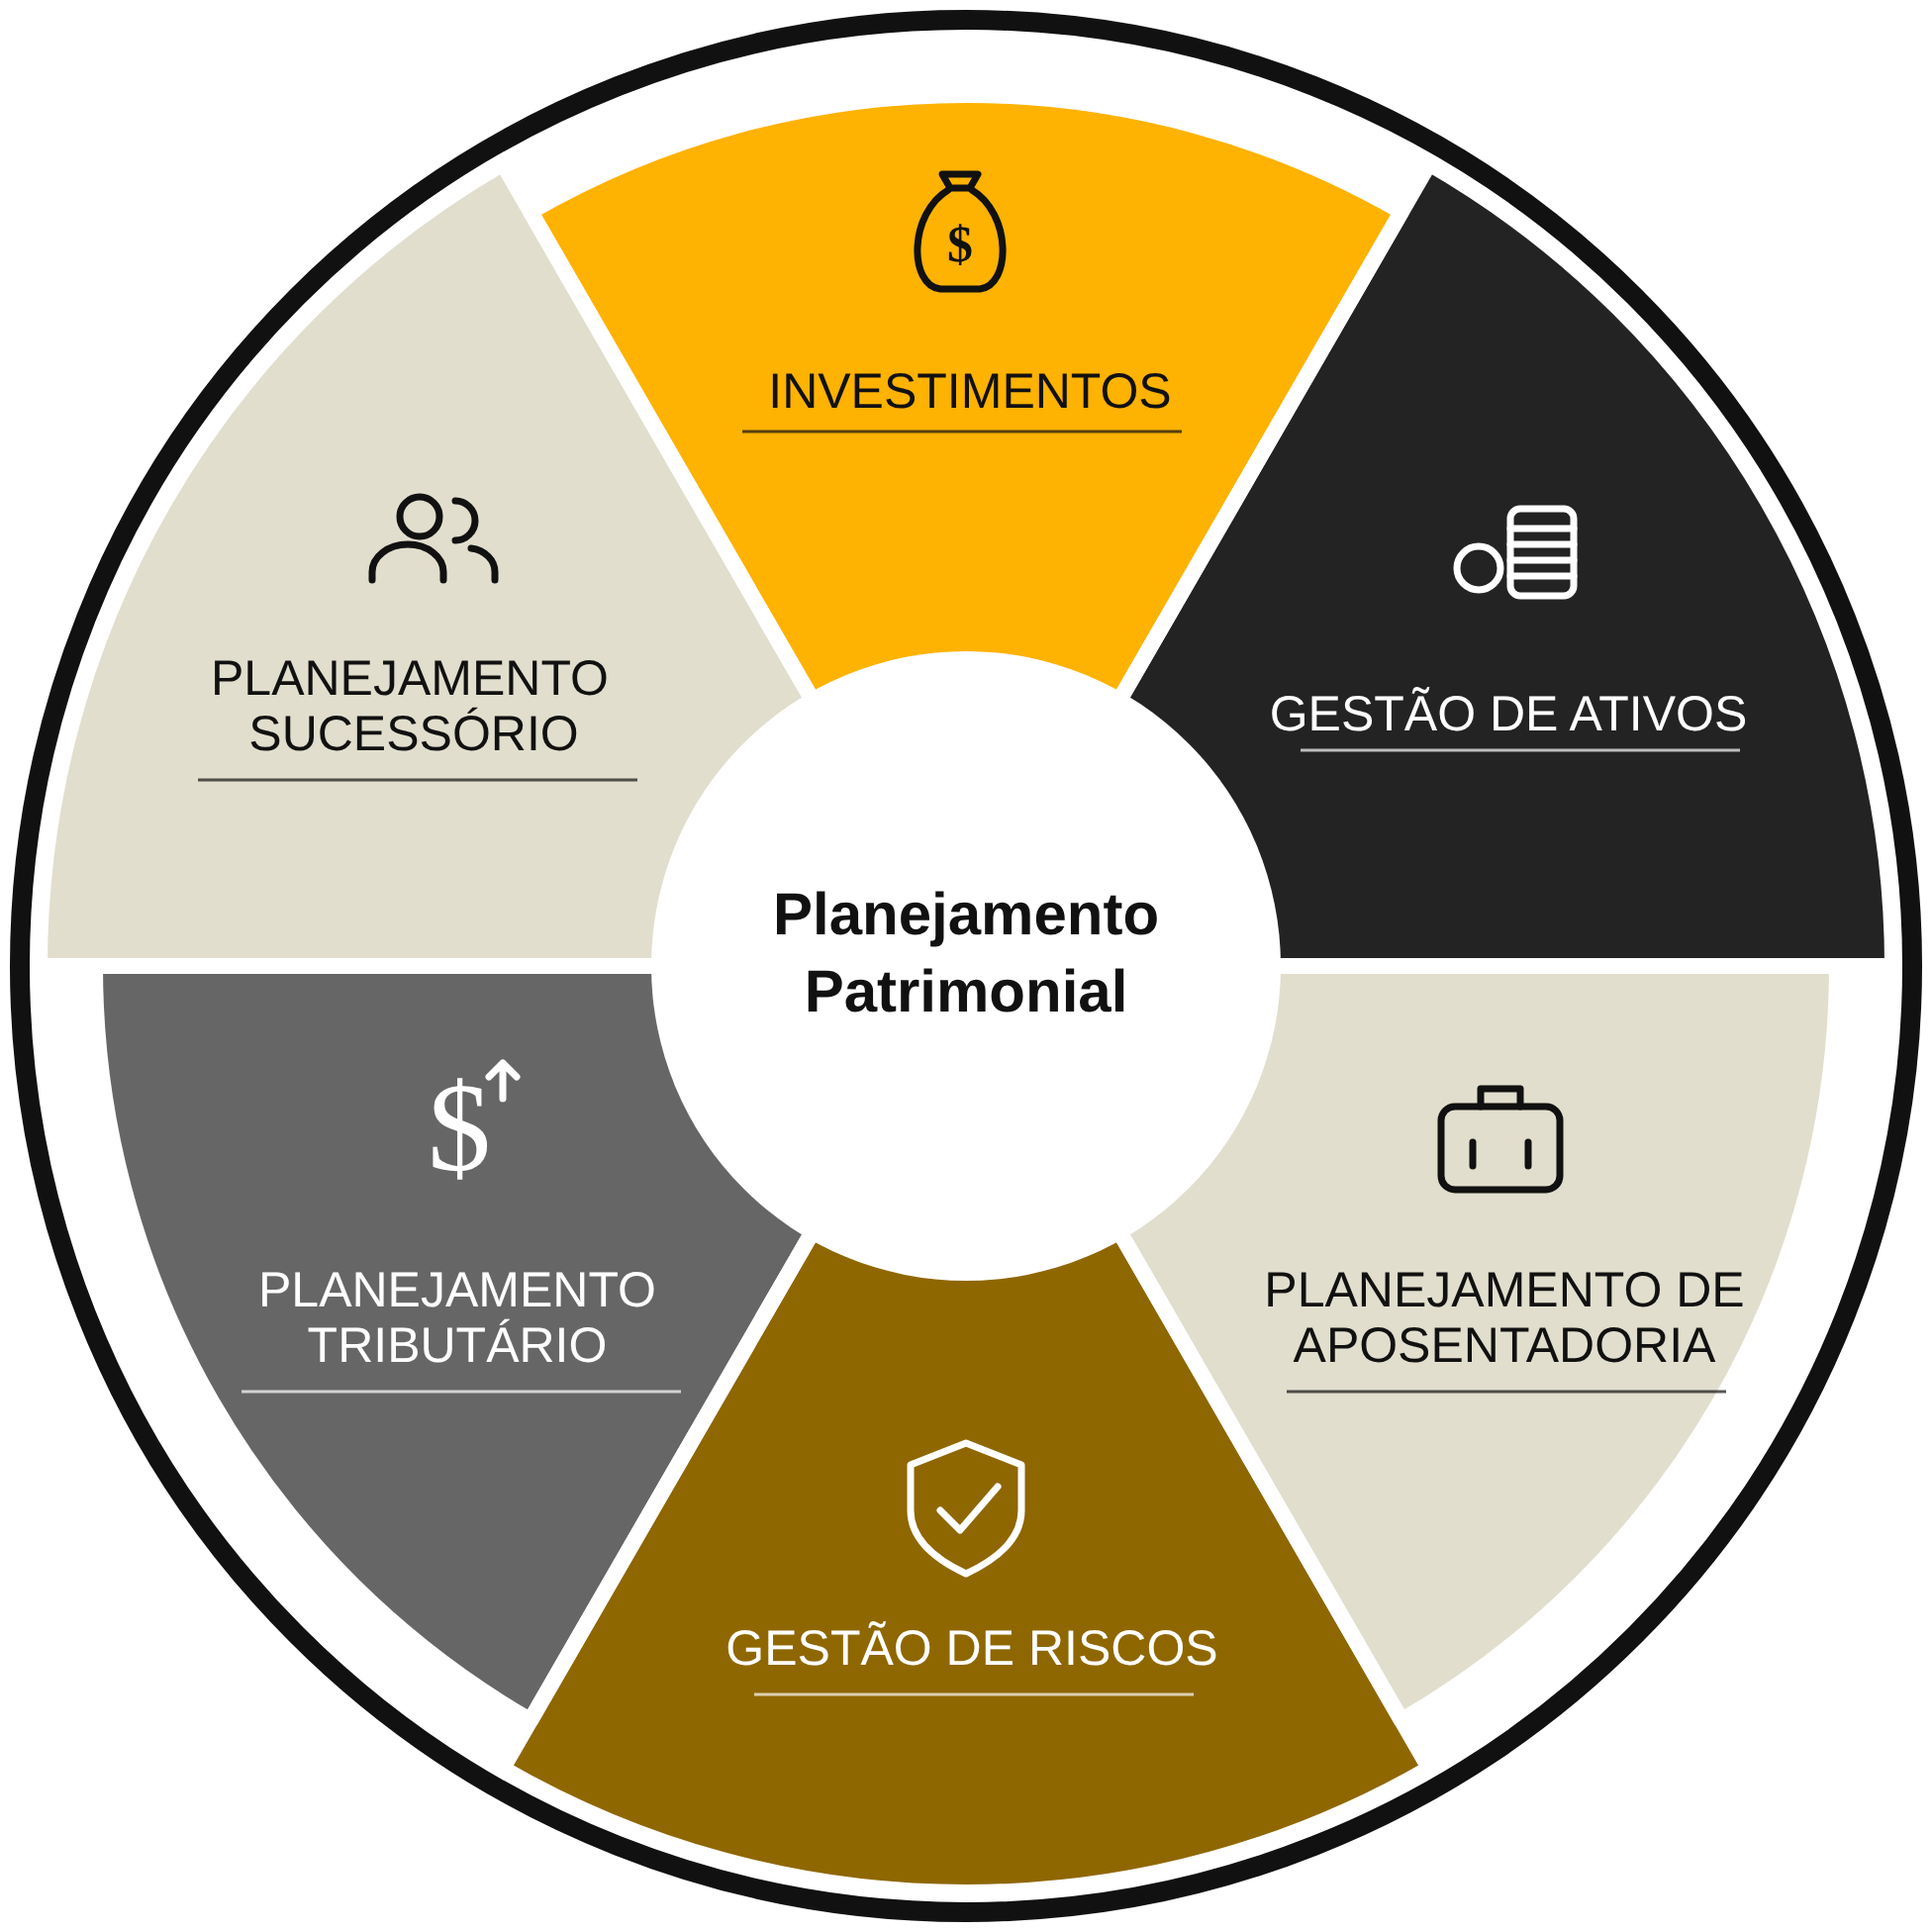
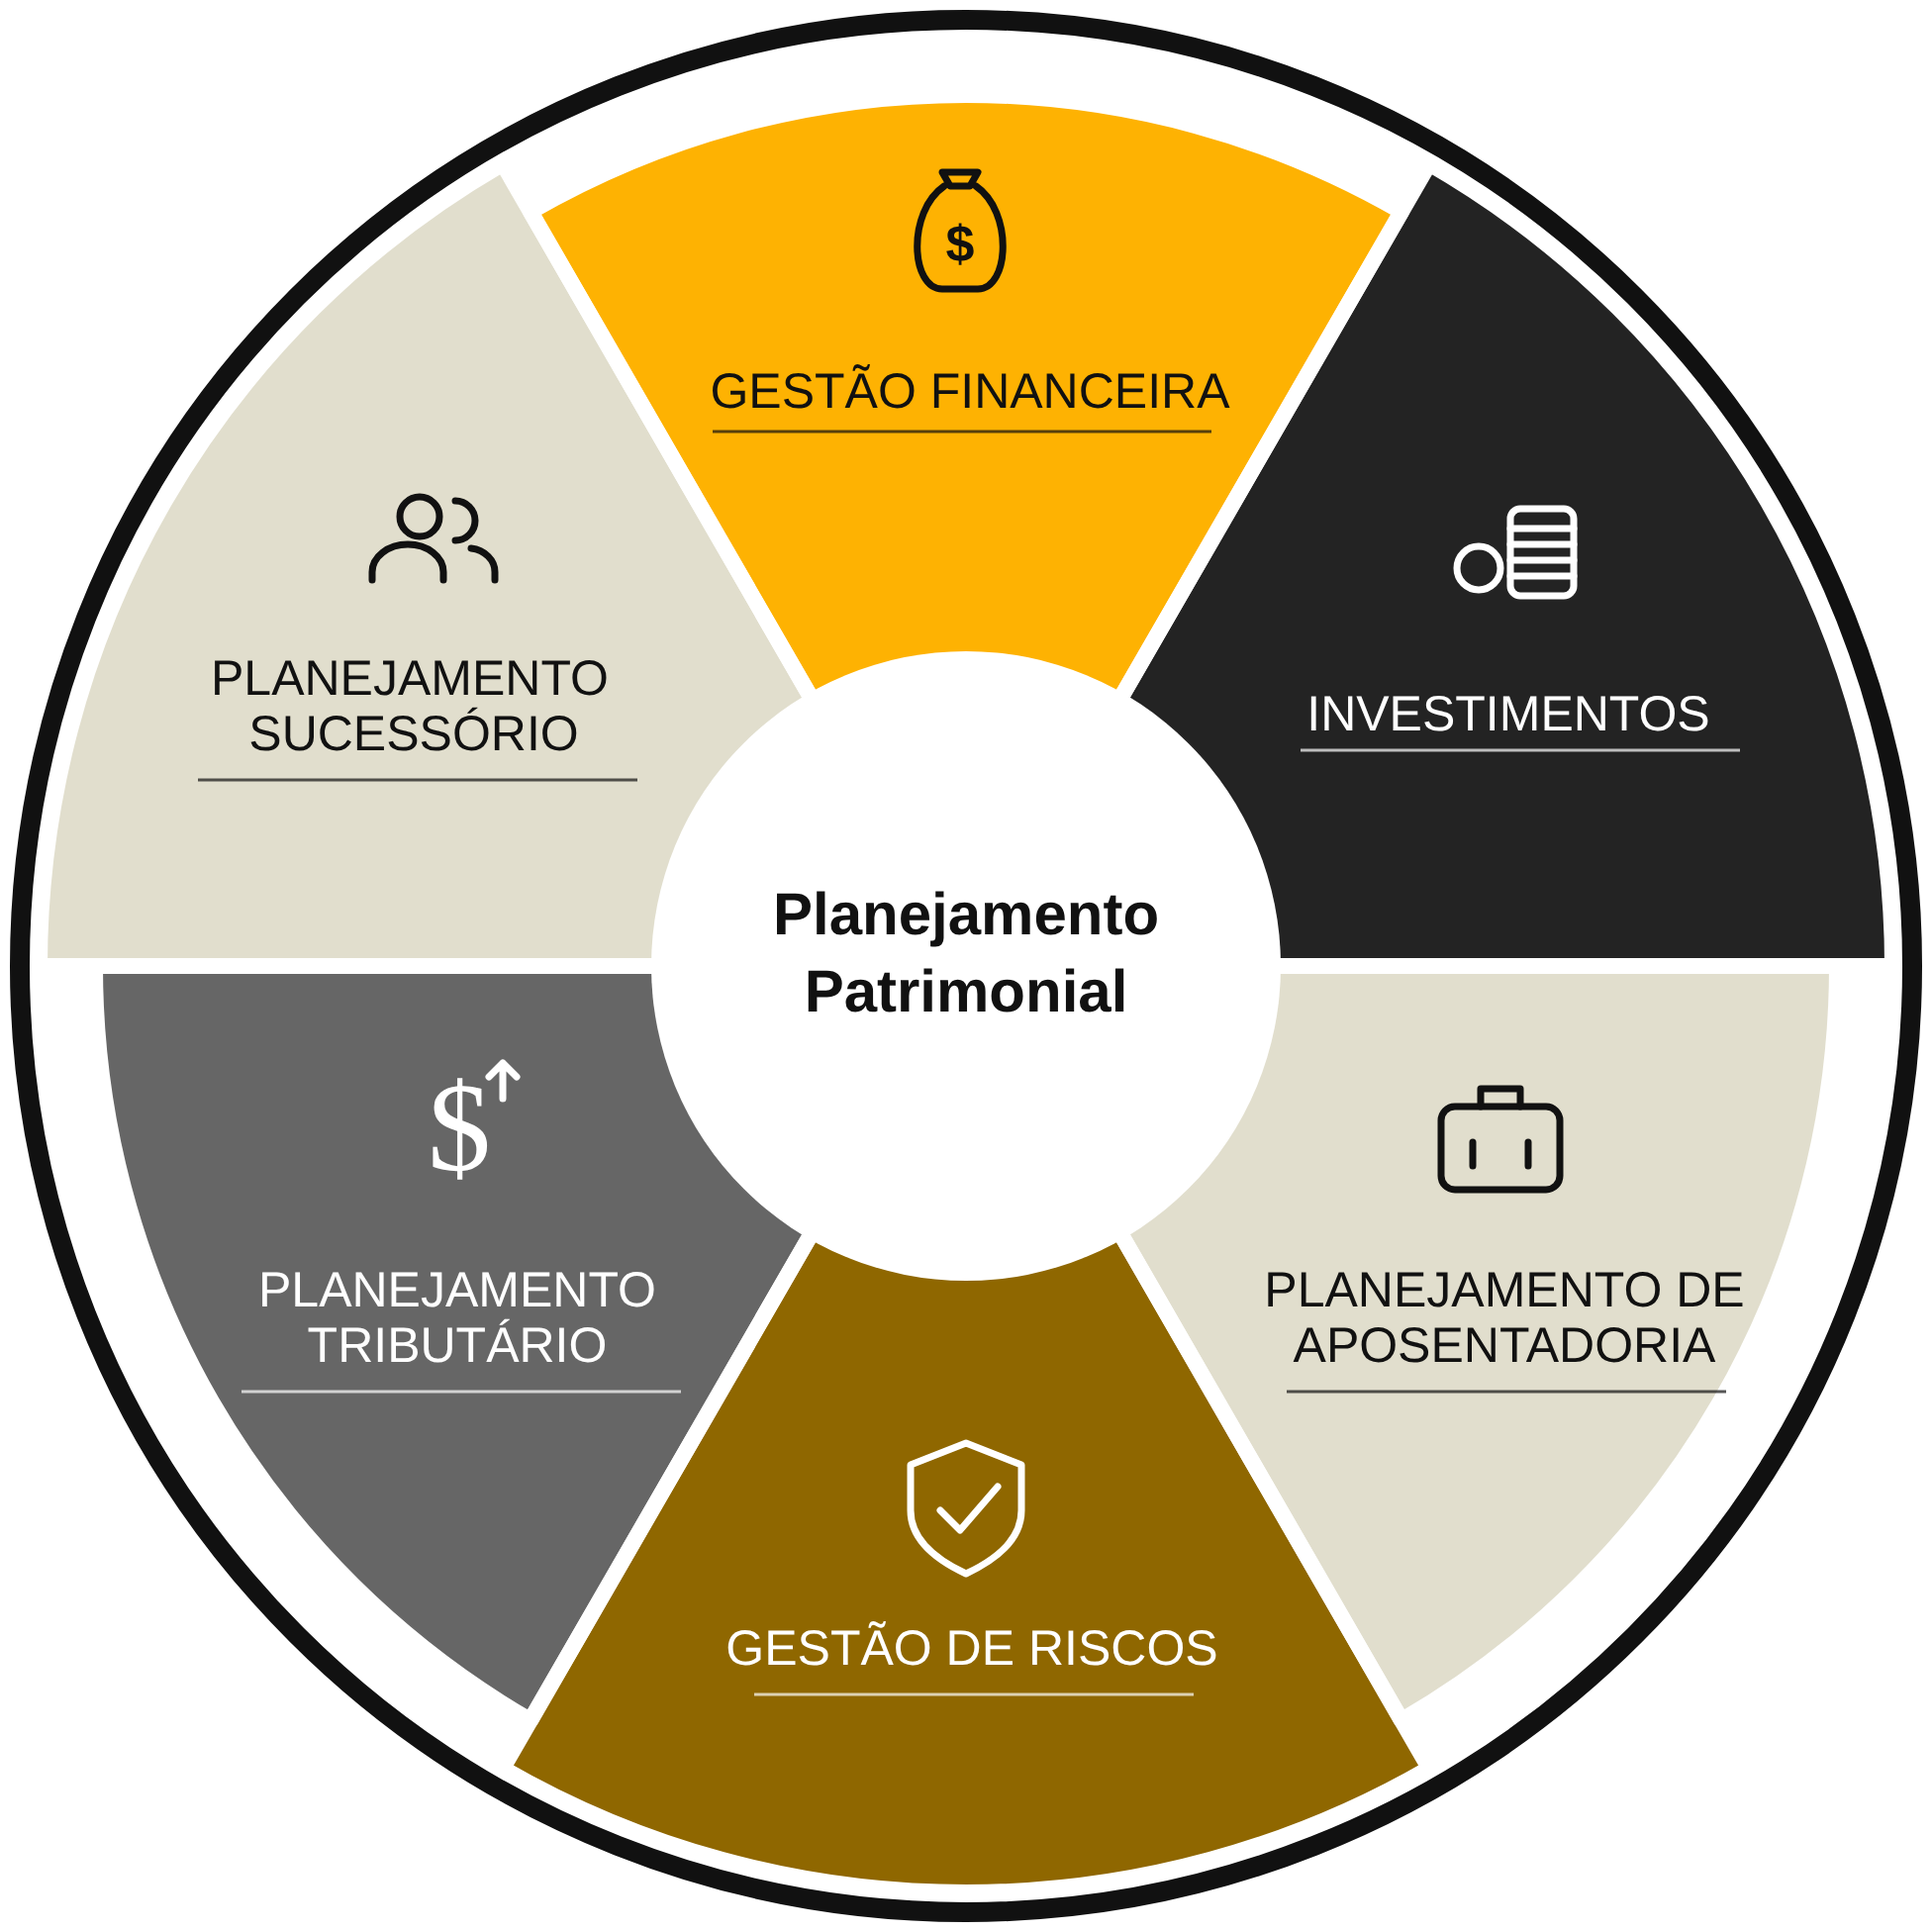
Ajustes de espacamento, remocao da secao Sobre Nos e animacoes mais lentas

Changed region(s): [[0.6562, 0.3438, 0.9062, 0.375], [0.375, 0.1875, 0.625, 0.2188], [0.4688, 0.0938, 0.5312, 0.125]]

diff --git a/src/components/missao-visao-valores.tsx b/src/components/missao-visao-valores.tsx
@@ -12,7 +12,7 @@ const valores = [
 export function MissaoVisaoValores() {
   return (
     <section
-      className="relative overflow-hidden py-16 md:py-20 lg:py-24"
+      className="relative overflow-hidden py-10 md:py-10 lg:py-20"
       style={{ background: "#FFFFFF" }}
     >
       <div className="mx-auto w-full max-w-[1280px] px-5 md:px-8">
@@ -43,14 +43,9 @@ export function MissaoVisaoValores() {
               <span className="font-display text-[0.7rem] font-extrabold tracking-[0.28em] text-accent uppercase">
                 Valores
               </span>
-              <ul className="mt-5 flex flex-wrap gap-2">
+              <ul className="mt-5 flex list-disc flex-col gap-1.5 pl-5 font-sans text-base leading-snug text-ink-muted marker:text-accent md:text-lg">
                 {valores.map((valor) => (
-                  <li
-                    key={valor}
-                    className="inline-flex items-center rounded-full border border-accent-hairline px-4 py-2 font-sans text-sm leading-snug text-ink-muted md:text-base"
-                  >
-                    {valor}
-                  </li>
+                  <li key={valor}>{valor}</li>
                 ))}
               </ul>
             </div>

diff --git a/src/components/provas.tsx b/src/components/provas.tsx
@@ -22,7 +22,7 @@ function NumeroAnimado({ valor, ativo }: { valor: number; ativo: boolean }) {
     if (!ativo) return;
     let raf = 0;
     const inicio = performance.now();
-    const duracao = 1600;
+    const duracao = 2200;
     const tick = (agora: number) => {
       const t = Math.min((agora - inicio) / duracao, 1);
       const eased = 1 - Math.pow(1 - t, 3); // ease-out cúbico
@@ -59,7 +59,7 @@ function ItemResumo({ item, ativo, indice }: { item: Item; ativo: boolean; indic
   const anim = {
     opacity: ativo ? 1 : 0,
     transform: ativo ? "translateY(0)" : "translateY(14px)",
-    transition: `opacity 700ms ease-out ${indice * 160}ms, transform 700ms ease-out ${indice * 160}ms`,
+    transition: `opacity 1000ms ease-out ${indice * 180}ms, transform 1000ms ease-out ${indice * 180}ms`,
   };
 
   return (
@@ -114,7 +114,7 @@ export function Provas() {
     <section
       id="trajetoria"
       ref={ref}
-      className="relative overflow-hidden py-16 md:py-20 lg:py-28"
+      className="relative overflow-hidden py-10 md:py-10 lg:py-20"
       style={{ background: "#FFFFFF" }}
     >
       <div className="relative mx-auto w-full max-w-[1200px] px-5 md:px-8">

diff --git a/src/components/fundador.tsx b/src/components/fundador.tsx
@@ -8,8 +8,20 @@ export function Fundador() {
   const [videoStarted, setVideoStarted] = useState(false);
 
   return (
-    <section className="relative overflow-hidden bg-surface-light py-16 md:py-20 lg:py-24">
+    <section
+      id="sobre"
+      className="relative overflow-hidden bg-surface-light py-10 md:py-10 lg:py-20"
+    >
       <div className="mx-auto w-full max-w-[1280px] px-5 md:px-8">
+        {/* Selo "Sobre nós" abrindo a seção, seguido direto para o fundador e o vídeo */}
+        <Reveal>
+          <span className="inline-flex items-center rounded-full border border-accent px-5 py-2 font-display text-[0.7rem] font-extrabold tracking-[0.06em] text-accent uppercase md:text-xs">
+            Sobre nós
+          </span>
+        </Reveal>
+      </div>
+
+      <div className="mt-10 mx-auto w-full max-w-[1280px] px-5 md:px-8">
         <div className="grid gap-12 lg:grid-cols-[minmax(0,0.85fr)_minmax(0,1.15fr)] lg:items-center lg:gap-16">
           {/* foto / vídeo do podcast */}
           <Reveal>

diff --git a/src/routes/index.tsx b/src/routes/index.tsx
@@ -2,7 +2,6 @@ import { Equipe } from "@/components/equipe";
 import { createFileRoute } from "@tanstack/react-router";
 import { SiteHeader } from "@/components/site-header";
 import { Hero } from "@/components/hero";
-import { NovaAwa } from "@/components/nova-awa";
 import { Fundador } from "@/components/fundador";
 import { MissaoVisaoValores } from "@/components/missao-visao-valores";
 import { GrupoAwa } from "@/components/grupo-awa";
@@ -57,7 +56,6 @@ function Index() {
       <Hero />
 
       {/* Sobre nós */}
-      <NovaAwa />
       <Fundador />
       <MissaoVisaoValores />
       <GrupoAwa />

diff --git a/src/routes/assessores.tsx b/src/routes/assessores.tsx
@@ -39,7 +39,7 @@ function Assessores() {
     <main className="min-h-screen bg-surface-light">
       <SiteHeader variant="light" />
 
-      <article className="relative overflow-hidden py-16 pt-32 md:py-20 md:pt-40 lg:py-28">
+      <article className="relative overflow-hidden py-10 pt-32 md:py-10 md:pt-40 lg:py-20">
         <div className="mx-auto w-full max-w-[1100px] px-5 md:px-8">
           <Reveal>
             <p className="font-display text-[0.65rem] font-extrabold tracking-[0.3em] text-accent uppercase">

diff --git a/src/components/frase-transicao.tsx b/src/components/frase-transicao.tsx
@@ -3,7 +3,7 @@ import type { ReactNode } from "react";
 export function FraseTransicao({ children }: { children: ReactNode }) {
   return (
     <div
-      className="relative flex items-center justify-center overflow-hidden py-10 md:py-14"
+      className="relative flex items-center justify-center overflow-hidden py-10 md:py-10 lg:py-20"
       style={{ background: "#232323" }}
     >
       <p className="mx-auto px-5 text-center font-display text-lg font-bold tracking-tight text-white md:text-2xl">

diff --git a/src/components/reveal.tsx b/src/components/reveal.tsx
@@ -35,8 +35,8 @@ export function Reveal({
     <div
       ref={ref}
       style={{ ...style, transitionDelay: `${delay}ms` }}
-      className={`transition-all duration-700 ease-out motion-reduce:transition-none ${
-        visible ? "translate-y-0 opacity-100" : "translate-y-6 opacity-0"
+      className={`transition-all duration-1000 ease-out motion-reduce:transition-none ${
+        visible ? "translate-y-0 opacity-100" : "translate-y-8 opacity-0"
       } ${className}`}
     >
       {children}

diff --git a/src/components/grupo-awa.tsx b/src/components/grupo-awa.tsx
@@ -2,7 +2,7 @@ import { Reveal } from "@/components/reveal";
 
 export function GrupoAwa() {
   return (
-    <section className="relative overflow-hidden bg-surface-light">
+    <section className="relative overflow-hidden bg-surface-light py-10 md:py-10 lg:py-20">
       <div className="mx-auto w-full max-w-[1280px] px-5 md:px-8">
         <Reveal>
           <span className="font-display text-[0.7rem] font-extrabold tracking-[0.34em] text-accent uppercase">

diff --git a/src/components/equipe.tsx b/src/components/equipe.tsx
@@ -12,7 +12,7 @@ const iniciais = (nome: string) =>
 
 export function Equipe() {
   return (
-    <section className="relative overflow-hidden bg-white py-16 md:py-20 lg:py-24">
+    <section className="relative overflow-hidden bg-white py-10 md:py-10 lg:py-20">
       <div className="mx-auto w-full max-w-[1280px] px-5 md:px-8">
         <Reveal>
           <span className="font-display text-[0.7rem] font-extrabold tracking-[0.34em] text-accent uppercase">

diff --git a/src/components/premios.tsx b/src/components/premios.tsx
@@ -12,7 +12,7 @@ const selos = [
 
 export function Premios() {
   return (
-    <section className="relative overflow-hidden bg-surface-light py-16 md:py-20 lg:py-24">
+    <section className="relative overflow-hidden bg-surface-light py-10 md:py-10 lg:py-20">
       <div className="mx-auto w-full max-w-[1280px] px-5 md:px-8">
         <Reveal>
           <span className="font-display text-[0.7rem] font-extrabold tracking-[0.34em] text-accent uppercase">

diff --git a/src/components/trabalhe-conosco.tsx b/src/components/trabalhe-conosco.tsx
@@ -14,7 +14,7 @@ export function TrabalheConosco() {
   return (
     <section
       id="trabalhe-conosco"
-      className="relative overflow-hidden bg-surface-light py-16 md:py-20 lg:py-28"
+      className="relative overflow-hidden bg-surface-light py-10 md:py-10 lg:py-20"
     >
       <div className="mx-auto w-full max-w-[1280px] px-5 md:px-8">
         <div className="grid gap-14 lg:grid-cols-[minmax(0,0.9fr)_minmax(0,1fr)] lg:gap-16">

diff --git a/src/components/planejamento-pilar.tsx b/src/components/planejamento-pilar.tsx
@@ -4,7 +4,7 @@ import planejamentoImg from "@/assets/selos/Planejamento_Patrimonial_light.png";
 export function PlanejamentoPilar() {
   return (
     <section
-      className="relative overflow-hidden py-12 md:py-14 lg:py-16"
+      className="relative overflow-hidden py-10 md:py-10 lg:py-20"
       style={{ background: "#FFFFFF" }}
     >
       <div className="mx-auto w-full max-w-[1280px] px-5 md:px-8">
